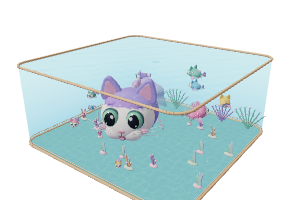
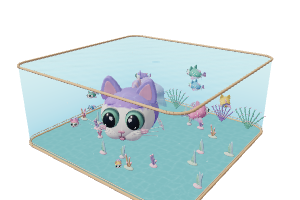
Reduce aquarium GPU work, bound stale camera frames and enlarge kitten-fish eyes

diff --git a/public/aquarium-motion.js b/public/aquarium-motion.js
@@ -1,5 +1,6 @@
 import * as THREE from "three";
 import { aquariumFishFrame } from "./aquarium-data.js";
+const PARTS = ["body", "tail", "leftFin", "rightFin"];
 
 // One small pose palette per tank, shared by all five fish batches. Geometry,
 // instance matrices and colours stay on the GPU for the life of the tank.
@@ -9,9 +10,11 @@ export function createFishPalette(tank) {
     place = { value: new Float32Array(tank.fish * 4) },
     heading = { value: new Float32Array(tank.fish * 4) },
     limbs = { value: new Float32Array(tank.fish * 4) },
+    rows = { value: new Float32Array(tank.fish * 4 * 12) },
     visibleIds = { value: Int32Array.from({ length: tank.fish }, (_, i) => i) },
     fish = new THREE.Object3D(),
-    local = new THREE.Object3D();
+    local = new THREE.Object3D(),
+    matrices = Array.from({ length: tank.fish * 4 }, () => new THREE.Matrix4());
   let shownTime = NaN,
     shownReduced;
   function update(time, reduced = false) {
@@ -40,9 +43,21 @@ export function createFishPalette(tank) {
       l[k + 1] = Math.sin(f.tail);
       l[k + 2] = Math.cos(0.4 + f.fin);
       l[k + 3] = Math.sin(0.4 + f.fin);
+      for (let part = 0; part < PARTS.length; part++) {
+        const matrix = matrices[i * 4 + part];
+        poseMatrix(i, PARTS[part], matrix);
+        const e = matrix.elements,
+          offset = (i * 4 + part) * 12;
+        for (let row = 0; row < 3; row++) {
+          rows.value[offset + row * 4] = e[row] / f.scale;
+          rows.value[offset + row * 4 + 1] = e[4 + row] / f.scale;
+          rows.value[offset + row * 4 + 2] = e[8 + row] / f.scale;
+          rows.value[offset + row * 4 + 3] = e[12 + row];
+        }
+      }
     }
   }
-  function matrixAt(i, part, matrix) {
+  function poseMatrix(i, part, matrix) {
     const f = poses[i];
     fish.position.set(f.x, f.y, f.z);
     fish.rotation.set(0, f.yaw, f.roll);
@@ -60,8 +75,21 @@ export function createFishPalette(tank) {
     local.updateMatrix();
     return matrix.multiplyMatrices(fish.matrix, local.matrix);
   }
+  function matrixAt(i, part, matrix) {
+    return matrix.copy(matrices[i * 4 + PARTS.indexOf(part)]);
+  }
   update(0, true);
-  return { tank, place, heading, limbs, visibleIds, poses, update, matrixAt };
+  return {
+    tank,
+    place,
+    heading,
+    limbs,
+    rows,
+    visibleIds,
+    poses,
+    update,
+    matrixAt,
+  };
 }
 
 export function applyFishMotion(material, palette) {
@@ -74,6 +102,7 @@ export function applyFishMotion(material, palette) {
       uFishPlace: palette.place,
       uFishHeading: palette.heading,
       uFishLimbs: palette.limbs,
+      uFishRows: palette.rows,
       uFishIds: palette.visibleIds,
     });
     shader.vertexShader =
@@ -84,28 +113,19 @@ export function applyFishMotion(material, palette) {
       #undef USE_INSTANCING
       #undef USE_INSTANCING_COLOR
       attribute float aFishPart;
-      attribute vec2 aFishSurface;
+      attribute float aFishSurface;
       varying vec2 vFishSurface;
       uniform vec4 uFishPlace[${count}];
       uniform vec4 uFishHeading[${count}];
       uniform vec4 uFishLimbs[${count}];
+      uniform vec4 uFishRows[${count * 4 * 3}];
       uniform int uFishIds[${count}];
       vec3 aquariumPose(vec3 p,bool positionPart){
         int i=uFishIds[gl_InstanceID];
-        vec4 h=uFishHeading[i],l=uFishLimbs[i];
-        if(aFishPart>.5 && aFishPart<1.5){
-          p=vec3(l.x*p.x+l.y*p.z,p.y,-l.y*p.x+l.x*p.z);
-          if(positionPart)p+=vec3(0.,0.,-1.3);
-        }else if(aFishPart>1.5){
-          float signFin=aFishPart<2.5 ? -1. : 1.;
-          p=vec3(l.z*p.x-signFin*l.w*p.y,signFin*l.w*p.x+l.z*p.y,p.z);
-          p=vec3(.877582562*p.x+signFin*.479425539*p.z,p.y,-signFin*.479425539*p.x+.877582562*p.z);
-          p=vec3(p.x,.995004165*p.y-.099833417*p.z,.099833417*p.y+.995004165*p.z);
-          if(positionPart)p+=vec3(signFin*.8,-.03,-.25);
-        }
-        p=vec3(h.z*p.x-h.w*p.y,h.w*p.x+h.z*p.y,p.z);
-        p=vec3(h.x*p.x+h.y*p.z,p.y,-h.y*p.x+h.x*p.z);
-        return positionPart ? p*uFishPlace[i].w+uFishPlace[i].xyz : p;
+        int joint=(i*4+int(aFishPart+.5))*3;
+        vec4 a=uFishRows[joint],b=uFishRows[joint+1],c=uFishRows[joint+2];
+        vec3 rotated=vec3(dot(a.xyz,p),dot(b.xyz,p),dot(c.xyz,p));
+        return positionPart ? rotated*uFishPlace[i].w+vec3(a.w,b.w,c.w) : rotated;
       }
     ` +
       shader.vertexShader
@@ -115,7 +135,7 @@ export function applyFishMotion(material, palette) {
         )
         .replace(
           "#include <begin_vertex>",
-          "#include <begin_vertex>\ntransformed=aquariumPose(transformed,true);vFishSurface=aFishSurface;",
+          "#include <begin_vertex>\ntransformed=aquariumPose(transformed,true);vFishSurface=aFishSurface>.5?vec2(.16,.025):vec2(.68,0.);",
         );
     shader.fragmentShader =
       "varying vec2 vFishSurface;\n" +
@@ -129,6 +149,6 @@ export function applyFishMotion(material, palette) {
           "#include <metalnessmap_fragment>\nmetalnessFactor=vFishSurface.y;",
         );
   };
-  material.customProgramCacheKey = () => key + "-fish-palette-v3-" + count;
+  material.customProgramCacheKey = () => key + "-fish-palette-v4-" + count;
   return material;
 }

diff --git a/public/aquarium-fish.js b/public/aquarium-fish.js
@@ -16,6 +16,7 @@ import { runSceneSteps } from "./scene-tasks.js";
 // One smoothly rounded model shared by all 50 fish. The marker is replaced by
 // each fish's coat colour in the vertex shader; white cheeks and eyes stay white.
 const COAT = 0xff00ff;
+const EYE = { x: 0.326, y: 0.351, depth: 0.43 };
 const round = new THREE.SphereGeometry(1, 24, 16);
 round.userData.sharedScenery = true;
 const smallRound = new THREE.SphereGeometry(1, 16, 12);
@@ -254,8 +255,8 @@ function kittenFishEye(g, x, sign) {
       const a = (k / sides) * Math.PI * 2,
         u = Math.cos(a) * r,
         v = Math.sin(a) * r;
-      positions.push(u * 0.305, v * 0.337, depth * 0.32);
-      const p = Math.hypot(u / 0.57, v / 0.72),
+      positions.push(u * EYE.x, v * EYE.y, depth * EYE.depth);
+      const p = Math.hypot(u / 0.63, v / 0.77),
         iris = THREE.MathUtils.smoothstep(p, 0.96, 1.07),
         fiber =
           Math.sin(a * 43 + r * 31) * 0.035 + Math.sin(a * 23 - r * 19) * 0.025;
@@ -295,13 +296,13 @@ function kittenFishEye(g, x, sign) {
   globe.material.vertexColors = true;
   globe.name = "Convex kitten eye · iris and pupil";
   const glint = (dx, dy, sx, sy) => {
-    const r2 = (dx / 0.305) ** 2 + (dy / 0.337) ** 2,
-      z = 1.18 + 0.32 * Math.sqrt(1 - r2) + 0.007;
+    const r2 = (dx / EYE.x) ** 2 + (dy / EYE.y) ** 2,
+      z = 1.18 + EYE.depth * Math.sqrt(1 - r2) + 0.007;
     const p = soft(g, 0xffffff, x + dx, 0.34 + dy, z, sx, sy, 0.014, true);
     p.position.z = z;
     p.name = "Kitten eye catchlight";
   };
-  glint(-sign * 0.078, 0.118, 0.062, 0.073);
+  glint(-sign * 0.078, 0.118, 0.068, 0.078);
   glint(sign * 0.087, -0.116, 0.024, 0.031);
 }
 
@@ -445,18 +446,19 @@ function* packedFishSteps(parts) {
     for (const p of sources) {
       const g = p.geometry.clone(),
         count = g.attributes.position.count,
-        surface = new Float32Array(count * 2);
+        surface = new Uint8Array(count);
       for (let i = 0; i < count; i++) {
-        surface[i * 2] = p.material.roughness;
-        surface[i * 2 + 1] = p.material.metalness;
+        if (p.material.roughness !== 0.68 && p.material.roughness !== 0.16)
+          throw Error("Unknown packed fish surface");
+        surface[i] = p.material.roughness === 0.16 ? 1 : 0;
       }
       g.setAttribute(
         "aFishPart",
-        new THREE.Float32BufferAttribute(new Float32Array(count).fill(id), 1),
+        new THREE.Uint8BufferAttribute(new Uint8Array(count).fill(id), 1),
       );
       g.setAttribute(
         "aFishSurface",
-        new THREE.Float32BufferAttribute(surface, 2),
+        new THREE.Uint8BufferAttribute(surface, 1),
       );
       geometries.push(g);
       yield;

diff --git a/public/world.js b/public/world.js
@@ -2,6 +2,8 @@ import { aquariumTank } from "./aquarium-data.js";
 import { attractionVisibility } from "./attraction-visibility.js";
 import { rideGuests } from "./ride-guests.js";
 import { createRenderPacer } from "./render-pacer.js";
+import { createGpuFrameQueue } from "./gpu-frame-queue.js";
+import { skipUnusedSkinJoints } from "./native-skinning.js";
 import {
   enableCatRenderBatch,
   batchSceneCats,
@@ -164,6 +166,7 @@ export function createWorld(container, initialGame, callbacks = {}) {
     powerPreference: "high-performance",
   });
   renderer.setPixelRatio(Math.min(devicePixelRatio, 2));
+  const gpuFrames = createGpuFrameQueue(renderer.getContext());
   renderer.shadowMap.enabled = true;
   renderer.shadowMap.type = THREE.PCFSoftShadowMap;
   renderer.toneMapping = THREE.ACESFilmicToneMapping;
@@ -389,6 +392,7 @@ export function createWorld(container, initialGame, callbacks = {}) {
   let incomeSecond = -1;
   const incomeCache = new Map();
   let cat = createCat(initialGame.cat.mood);
+  skipUnusedSkinJoints(cat);
   chichiCarrier.add(cat);
   scene.add(chichiCarrier);
   const heroVisibility = attractionVisibility(chichiCarrier);
@@ -2882,6 +2886,7 @@ export function createWorld(container, initialGame, callbacks = {}) {
   const loseContext = (event) => {
     event.preventDefault();
     contextLost = true;
+    gpuFrames.clear();
     recovery.hidden = false;
   };
   const restoreContext = () => {
@@ -2906,7 +2911,7 @@ export function createWorld(container, initialGame, callbacks = {}) {
   const renderDue = createRenderPacer();
   function loop(now) {
     if (disposed) return;
-    if (contextLost || document.hidden) {
+    if (contextLost || document.hidden || !gpuFrames.ready()) {
       requestAnimationFrame(loop);
       return;
     }
@@ -4592,6 +4597,7 @@ export function createWorld(container, initialGame, callbacks = {}) {
     // competing GPU draws while its miniature scenes are being rendered.
     if (!dialogOpen) {
       renderer.render(scene, camera);
+      gpuFrames.submitted();
       recovery.hidden = true;
     }
     requestAnimationFrame(loop);
@@ -4773,6 +4779,7 @@ export function createWorld(container, initialGame, callbacks = {}) {
       );
       document.removeEventListener("visibilitychange", resume);
       recovery.remove();
+      gpuFrames.clear();
       renderer.dispose();
     },
   };

diff --git a/public/native-skinning.js b/public/native-skinning.js
@@ -1,0 +1,30 @@
+// Keep Chichi's native SkinnedMesh renderer, bones, fur and materials. Three's
+// generic shader fetches four bone matrices even when most weights are zero.
+// A zero-weight joint contributes exactly zero to both position and normal.
+export function skipUnusedSkinJoints(cat) {
+  const materials = new Set();
+  cat.traverse((mesh) => {
+    if (mesh.isSkinnedMesh) materials.add(mesh.material);
+  });
+  for (const material of materials) {
+    if (material.userData.skipUnusedSkinJoints) continue;
+    material.userData.skipUnusedSkinJoints = true;
+    const before = material.onBeforeCompile,
+      key = material.customProgramCacheKey();
+    material.onBeforeCompile = function (shader, ...args) {
+      before.call(this, shader, ...args);
+      shader.vertexShader = shader.vertexShader.replace(
+        "#include <skinbase_vertex>",
+        `#ifdef USE_SKINNING
+        mat4 boneMatX=mat4(0.0),boneMatY=mat4(0.0),boneMatZ=mat4(0.0),boneMatW=mat4(0.0);
+        if(skinWeight.x>0.0)boneMatX=getBoneMatrix(skinIndex.x);
+        if(skinWeight.y>0.0)boneMatY=getBoneMatrix(skinIndex.y);
+        if(skinWeight.z>0.0)boneMatZ=getBoneMatrix(skinIndex.z);
+        if(skinWeight.w>0.0)boneMatW=getBoneMatrix(skinIndex.w);
+        #endif`,
+      );
+    };
+    material.customProgramCacheKey = () => key + "-skip-zero-joints-v1";
+    material.needsUpdate = true;
+  }
+}

diff --git a/public/gpu-frame-queue.js b/public/gpu-frame-queue.js
@@ -1,0 +1,34 @@
+// Keep input responsive when a phone's GPU is still finishing earlier frames.
+// Poll fences without waiting; never queue an unbounded trail of obsolete views.
+// The next submitted frame uses the latest camera at the original resolution.
+export function createGpuFrameQueue(gl, limit = 2) {
+  const pending = [];
+  const supported = typeof gl.fenceSync === "function";
+  function clear() {
+    for (const fence of pending) gl.deleteSync(fence);
+    pending.length = 0;
+  }
+  return {
+    ready() {
+      if (!supported) return true;
+      while (pending.length) {
+        const status = gl.clientWaitSync(pending[0], 0, 0);
+        if (status === gl.TIMEOUT_EXPIRED) break;
+        gl.deleteSync(pending.shift());
+      }
+      return pending.length < limit;
+    },
+    submitted() {
+      if (!supported) return;
+      const fence = gl.fenceSync(gl.SYNC_GPU_COMMANDS_COMPLETE, 0);
+      if (fence) {
+        pending.push(fence);
+        gl.flush();
+      }
+    },
+    clear,
+    get pending() {
+      return pending.length;
+    },
+  };
+}

diff --git a/public/index.html b/public/index.html
@@ -687,6 +687,6 @@
       </div>
     </dialog>
     <div id="toast" role="status" aria-live="polite" hidden></div>
-    <script type="module" src="./dist/app.js?v=b9e8f9eda648dde0"></script>
+    <script type="module" src="./dist/app.js?v=3514e8ca6f9dca6b"></script>
   </body>
 </html>

diff --git a/docs/world-performance.md b/docs/world-performance.md
@@ -86,3 +86,17 @@ restarting the 30/60 Hz interval after a late frame. A one-minute synthetic
 1,349. This is a scheduling regression test, not a device frame-rate benchmark.
 The private browser Workers copy their tested bundle into their own temporary
 directory so a concurrent Worker build cannot hot-reload the save test.
+
+The subsequent aquarium patch precomposes the four fish-part transforms once
+per fish and shares their matrix rows with every vertex. CPU picking reuses the
+same cached transforms. Part and surface IDs use exact byte-sized indices;
+the two original roughness/metalness pairs are recovered exactly in the shader.
+Vertices, triangles, colours, tank populations and DPR remain intact. The user's
+later eye request increases only the convex eye caps and kitten pupils.
+
+`gpu-frame-queue.js` polls nonblocking WebGL fences and permits at most two
+submitted frames. It avoids filling the driver's queue with stale camera views
+on a busy phone. No resolution or scene detail is adjusted. Chichi retains native
+skinning; the vertex shader skips only bone fetches whose weight is exactly zero.
+`CHICHI_NATIVE_SKIN_CHECK=1 node scripts/check-cat-render-batch.mjs` compares her
+original and optimized colour/shadow frames; all four poses matched pixel for pixel.

diff --git a/AGENTS.md b/AGENTS.md
@@ -90,3 +90,7 @@ duplicating or resurrecting a building removed on the other device.
   interval from each late callback or replay missed GPU frames in a burst.
   Browser/SQLite checks must snapshot `.generated/worker.mjs` to their own temp
   directory: `npm test` rebuilds that file and otherwise hot-reloads QA servers.
+- Keep GPU submissions bounded with nonblocking fences. Never wait for GPU
+  completion on the UI thread, lower DPR, or skip visual details to relieve a
+  busy frame queue. Preserve native Chichi skinning and zero-weight semantics;
+  verify `CHICHI_NATIVE_SKIN_CHECK=1 node scripts/check-cat-render-batch.mjs`.
